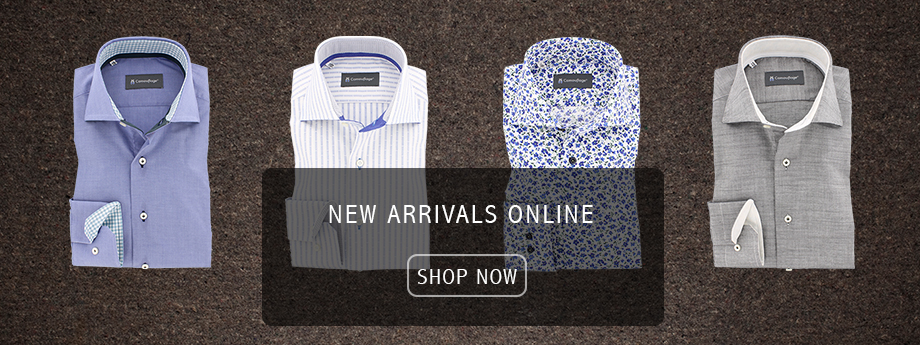
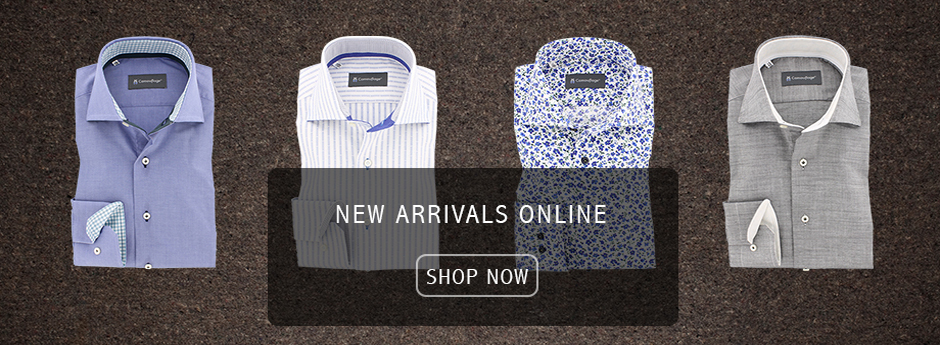
style change

diff --git a/skin/frontend/gravdept/acumen/css/base.min.css b/skin/frontend/gravdept/acumen/css/base.min.css
@@ -278,13 +278,13 @@ h4 {
 	float:left;
 	position:relative;
 	width:300px;
-	height:300px;
+	/*height:300px;*/
 	margin-left:10px;
 	margin-right:10px;
 }
 .grid .grid_16 img {
 	width:300px;
-	height:300px;
+	/*height:300px;*/
 }
 .alpha {
 	margin-left:0
